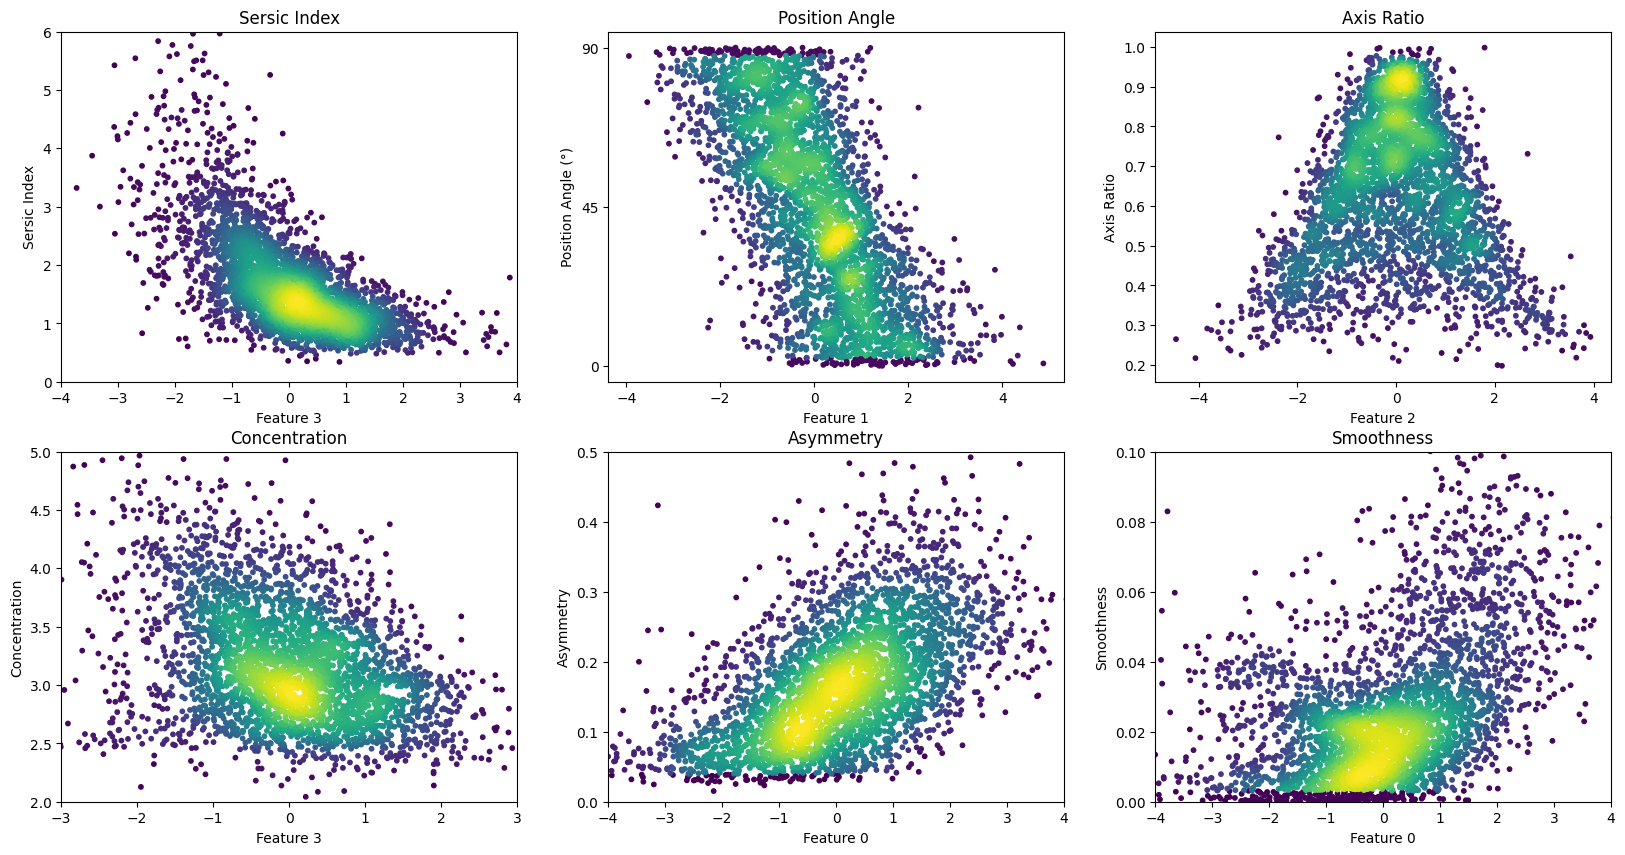
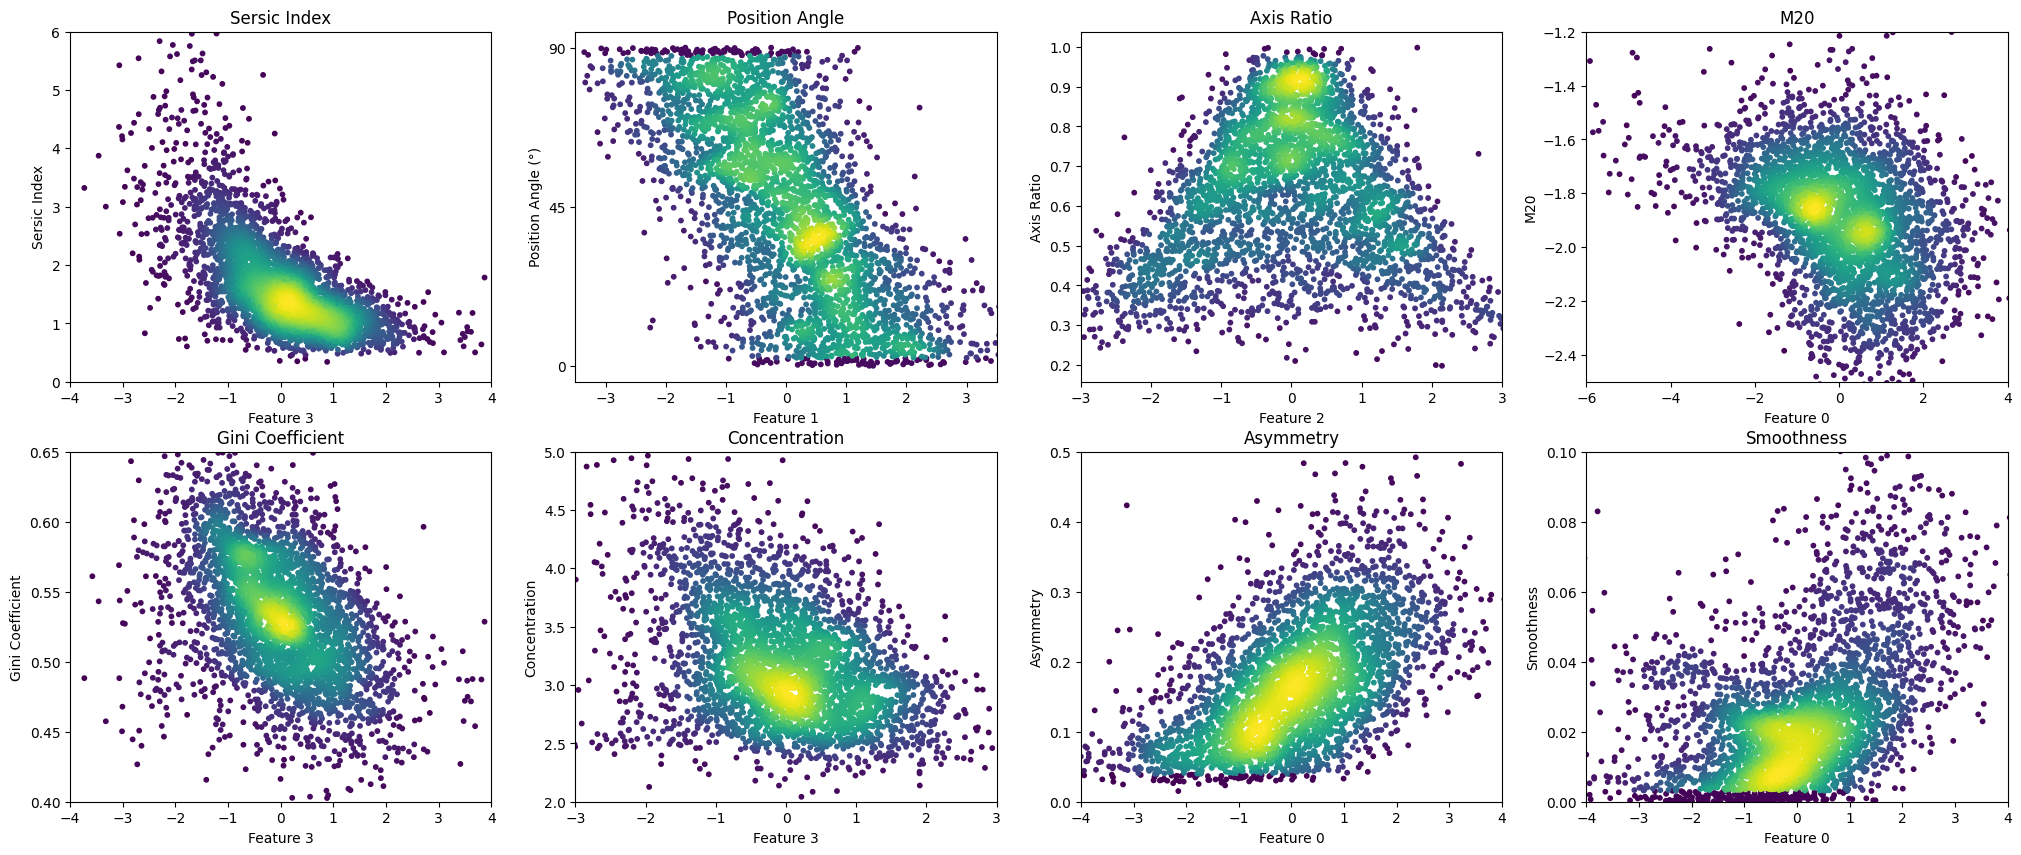
Code

diff --git a/comparison-extracted_features.py b/comparison-extracted_features.py
@@ -14,6 +14,8 @@ from sklearn.linear_model import LinearRegression
 from matplotlib import cm
 from matplotlib.colors import Normalize
 from scipy.interpolate import interpn
+from scipy.stats import gaussian_kde
+
 
 
 
@@ -374,24 +376,37 @@ def exponential(x, a, b, c):
 
 
 
+# def density_scatter(x ,y, axs, sort=True, bins=20, **kwargs):
+#
+#     # find the density colour based on the histogram
+#     data ,x_e, y_e = np.histogram2d(x, y, bins=bins, density=True )
+#     # z = interpn((0.5*(x_e[1:] + x_e[:-1]), 0.5*(y_e[1:] + y_e[:-1])), data ,np.vstack([x,y]).T, method="splinef2d", bounds_error=False)
+#     z = interpn((0.5*(x_e[1:] + x_e[:-1]), 0.5*(y_e[1:] + y_e[:-1])), data ,np.vstack([x,y]).T, method="nearest", bounds_error=False)
+#
+#     # replace nan with 0 (where there are no points)
+#     z[np.where(np.isnan(z))] = 0.0
+#
+#     # sort the points by density, so that the densest points are plotted last
+#     if sort:
+#         idx = z.argsort()
+#         x, y, z = x[idx], y[idx], z[idx]
+#
+#     # make and return the scatter plot with the colour corresponding to the density
+#     axs.scatter(x, y, c=z, **kwargs )
+#     return axs
+
+
 def density_scatter(x ,y, axs, sort=True, bins=20, **kwargs):
 
-    # find the density colour based on the histogram
-    data ,x_e, y_e = np.histogram2d(x, y, bins=bins, density=True )
-    z = interpn((0.5*(x_e[1:] + x_e[:-1]), 0.5*(y_e[1:] + y_e[:-1])), data ,np.vstack([x,y]).T, method="splinef2d", bounds_error=False)
+    xy = np.vstack([x, y])
+    z = gaussian_kde(xy)(xy)
 
-    # replace nan with 0 (where there are no points)
-    z[np.where(np.isnan(z))] = 0.0
-
-    # sort the points by density, so that the densest points are plotted last
     if sort:
         idx = z.argsort()
         x, y, z = x[idx], y[idx], z[idx]
 
-    # make and return the scatter plot with the colour corresponding to the density
-    axs.scatter(x, y, c=z, **kwargs )
+    axs.scatter(x, y, c=z, **kwargs)
     return axs
-
 
 
 
@@ -433,7 +448,7 @@ def density_scatter(x ,y, axs, sort=True, bins=20, **kwargs):
 
 
 
-fig, axs = plt.subplots(2, 3, figsize=(20, 10))
+fig, axs = plt.subplots(2, 4, figsize=(25, 10))
 
 density_scatter(extracted_features_switch[3], all_properties["n_r"], axs=axs[0][0], s=10)
 axs[0][0].set_title("Sersic Index")
@@ -442,45 +457,56 @@ axs[0][0].set_ylabel("Sersic Index")
 axs[0][0].set_xlim(-4, 4)
 axs[0][0].set_ylim(0, 6)
 
-# density_scatter(extracted_features_switch[3], all_properties["gini"], axs=axs[0][1], s=2)
-# axs[0][1].set_title("Gini Coefficient")
-# axs[0][1].set_xlabel("Feature 3")
-# axs[0][1].set_ylabel("Gini Coefficient")
-
 density_scatter(extracted_features_switch[1], abs(all_properties["pa_r"]), axs=axs[0][1], s=10)
 axs[0][1].set_title("Position Angle")
 axs[0][1].set_xlabel("Feature 1")
 axs[0][1].set_ylabel("Position Angle (°)")
 axs[0][1].set_yticks([0, 45, 90])
+axs[0][1].set_xlim(-3.5, 3.5)
 
 density_scatter(extracted_features_switch[2], all_properties["q_r"], axs=axs[0][2], s=10)
 axs[0][2].set_title("Axis Ratio")
 axs[0][2].set_xlabel("Feature 2")
 axs[0][2].set_ylabel("Axis Ratio")
+axs[0][2].set_xlim(-3, 3)
 
-density_scatter(extracted_features_switch[3], all_properties["concentration"], axs=axs[1][0], s=10)
-axs[1][0].set_title("Concentration")
+density_scatter(extracted_features_switch[0], all_properties["m20"], axs=axs[0][3], s=10)
+axs[0][3].set_title("M20")
+axs[0][3].set_xlabel("Feature 0")
+axs[0][3].set_ylabel("M20")
+axs[0][3].set_xlim(-6, 4)
+axs[0][3].set_ylim(-2.5, -1.2)
+
+density_scatter(extracted_features_switch[3], all_properties["gini"], axs=axs[1][0], s=10)
+axs[1][0].set_title("Gini Coefficient")
 axs[1][0].set_xlabel("Feature 3")
-axs[1][0].set_ylabel("Concentration")
-axs[1][0].set_ylim(2, 5)
-axs[1][0].set_xlim(-3, 3)
+axs[1][0].set_ylabel("Gini Coefficient")
+axs[1][0].set_xlim(-4, 4)
+axs[1][0].set_ylim(0.4, 0.65)
 
-density_scatter(extracted_features_switch[0], abs(all_properties["asymmetry"]), axs=axs[1][1], s=10)
-axs[1][1].set_title("Asymmetry")
-axs[1][1].set_xlabel("Feature 0")
-axs[1][1].set_ylabel("Asymmetry")
-axs[1][1].set_ylim(0, 0.5)
-axs[1][1].set_xlim(-4, 4)
+density_scatter(extracted_features_switch[3], all_properties["concentration"], axs=axs[1][1], s=10)
+axs[1][1].set_title("Concentration")
+axs[1][1].set_xlabel("Feature 3")
+axs[1][1].set_ylabel("Concentration")
+axs[1][1].set_xlim(-3, 3)
+axs[1][1].set_ylim(2, 5)
 
-density_scatter(extracted_features_switch[0], abs(all_properties["smoothness"]), axs=axs[1][2], s=10)
-axs[1][2].set_title("Smoothness")
+density_scatter(extracted_features_switch[0], abs(all_properties["asymmetry"]), axs=axs[1][2], s=10)
+axs[1][2].set_title("Asymmetry")
 axs[1][2].set_xlabel("Feature 0")
-axs[1][2].set_ylabel("Smoothness")
-axs[1][2].set_ylim(0, 0.1)
+axs[1][2].set_ylabel("Asymmetry")
 axs[1][2].set_xlim(-4, 4)
+axs[1][2].set_ylim(0, 0.5)
+
+density_scatter(extracted_features_switch[0], abs(all_properties["smoothness"]), axs=axs[1][3], s=10)
+axs[1][3].set_title("Smoothness")
+axs[1][3].set_xlabel("Feature 0")
+axs[1][3].set_ylabel("Smoothness")
+axs[1][3].set_xlim(-4, 4)
+axs[1][3].set_ylim(0, 0.1)
 
 
-plt.savefig("Variational Eagle/Plots/structure_measurement_comparisons_30_1_zoomed_4", bbox_inches='tight')
+plt.savefig("Variational Eagle/Plots/structure_measurement_comparisons_30_1_zoomed_4_2", bbox_inches='tight')
 plt.show()
 
 

diff --git a/transition_plot.py b/transition_plot.py
@@ -421,7 +421,7 @@ num_varying_features = 13
 med_pca_features = [np.median(extracted_features.T[i]) for i in range(len(extracted_features.T))]
 print(len(med_pca_features))
 
-fig, axs = plt.subplots(len(extracted_features.T), num_varying_features, figsize=(15, 12))
+fig, axs = plt.subplots(len(extracted_features.T), num_varying_features, figsize=(12, 12))
 
 for i in range(len(extracted_features.T)):
 
